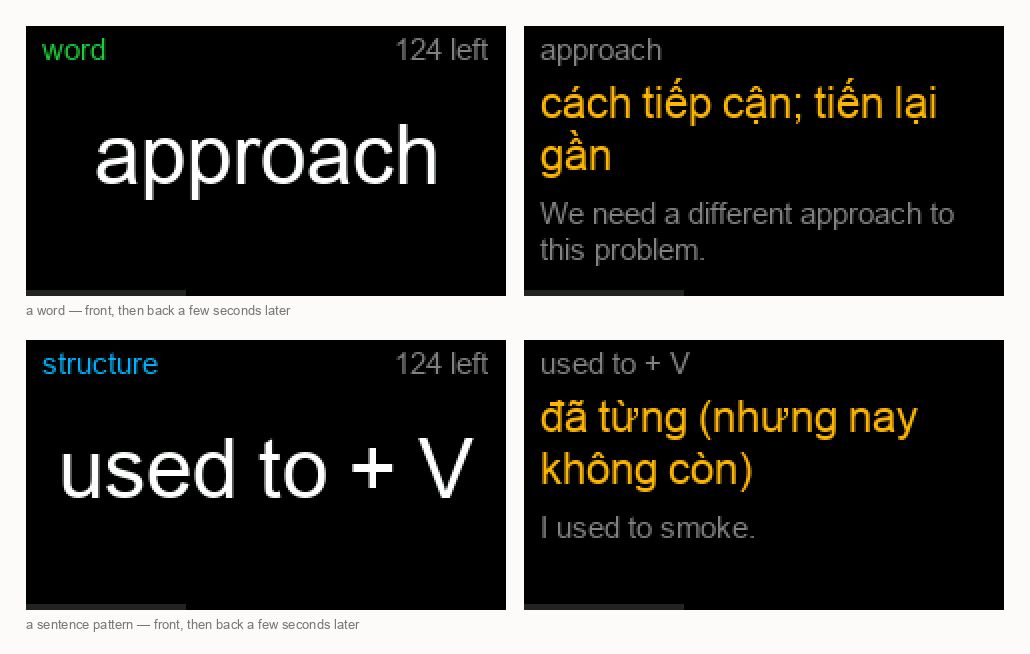
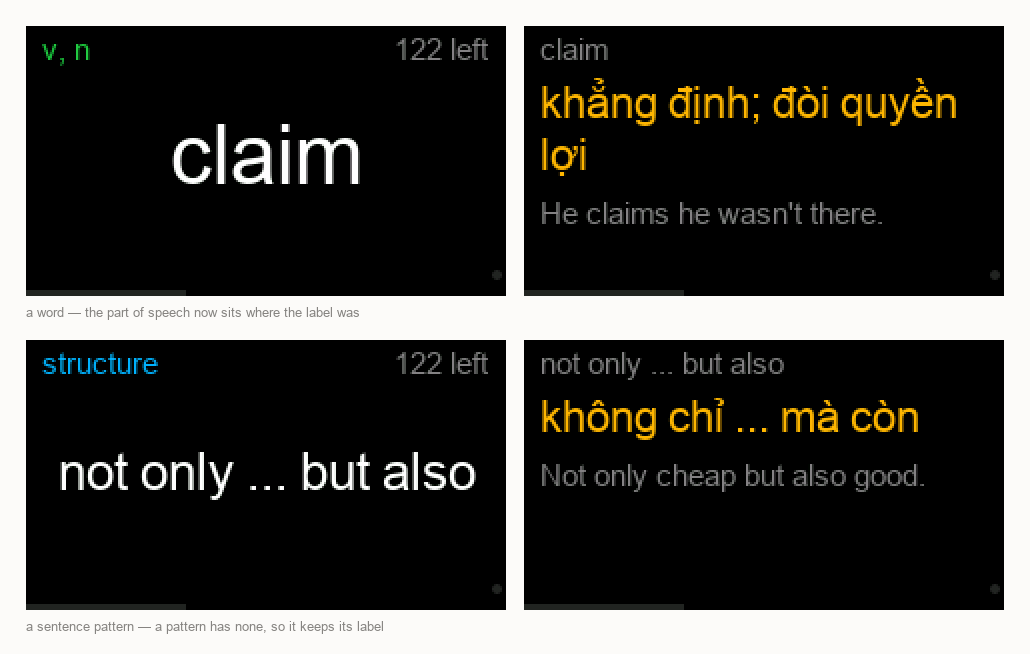
tag words with a part of speech, and stop counting showings
The meaning column had been quietly absorbing two word classes at once:
`approach` is "cách tiếp cận; tiến lại gần", a noun and a verb sharing one
cell. A `pos` column puts that on the card instead of leaving it to be
inferred, and the header label carries it -- "verb" says more than "word"
does, in the same pixels.

Stored short and shown in full. "n,v" is what the deck links into flash and
what a filter matches; "noun, verb" is what a person reads. The panel spells
it out only when it fits beside the counter and falls back to the short form
when it does not, the same "largest form that fits" rule the term is set by.

`seen` goes at the same time. It counted how many times a card was pushed to
the panel, which passed a hundred a day and distinguished nothing: a word
stared at forty times in one afternoon has been practised once. `days` is the
count that survives. The NVS byte keeps its width even though only the top
bit is used now -- narrowing it would change the blob size, and loadProgress()
wipes every saved mark whenever that happens.

diff --git a/src/main.cpp b/src/main.cpp
@@ -95,11 +95,11 @@ static const int MAX_BATCH = 40;
 struct Card {
   uint16_t id;
   uint8_t type;
+  const char *pos;    // "v", "n,v", "phr v"; empty for a structure
   const char *front;
   const char *back;
   const char *example;
   int16_t deckIndex;  // -1 for a fetched card: only compiled entries have NVS progress
-  uint8_t seen;       // this session, reported to the host and then cleared
   bool known;
 };
 
@@ -124,11 +124,11 @@ static const char *arenaCopy(const char *text) {
 
 // ------------------------------------------------------------------------ offline state
 
-// One byte per compiled entry: the top bit marks "known, never show again", the rest
-// counts how many times it has come up. 122 entries is 122 bytes, so the whole thing is
-// one small NVS blob rather than a key per entry.
+// One byte per compiled entry, of which only the top bit is used: "known, never show
+// again". The lower seven once counted showings and no longer do -- but the byte stays a
+// byte, because loadProgress() wipes the blob whenever its size changes and narrowing
+// this would throw away every mark already saved to buy back 15 bytes.
 static const uint8_t KNOWN_BIT = 0x80;
-static const uint8_t SEEN_MASK = 0x7F;
 uint8_t progress[DECK_COUNT];
 
 Preferences prefs;
@@ -225,14 +225,6 @@ uint8_t rotation = SCREEN_ROTATION;
 // ------------------------------------------------------------------------------ helpers
 
 static bool isKnown(uint16_t index) { return progress[index] & KNOWN_BIT; }
-static uint8_t seenCount(uint16_t index) { return progress[index] & SEEN_MASK; }
-
-static void noteSeenOffline(uint16_t index) {
-  if (seenCount(index) < SEEN_MASK) {
-    progress[index] = (progress[index] & KNOWN_BIT) | (seenCount(index) + 1);
-    progressDirty = true;
-  }
-}
 
 static uint16_t offlineRemaining() {
   uint16_t n = 0;
@@ -293,8 +285,9 @@ static void fillFromDeck() {
     if (bagPos >= bagSize) refillBag();
     if (bagSize == 0) break;
     uint16_t index = bag[bagPos++];
-    cards[cardCount++] = {DECK[index].id, DECK[index].type, DECK[index].front,
-                          DECK[index].back, DECK[index].example, (int16_t)index, 0, false};
+    cards[cardCount++] = {DECK[index].id, DECK[index].type, DECK[index].pos,
+                          DECK[index].front, DECK[index].back, DECK[index].example,
+                          (int16_t)index, false};
   }
   cardPos = -1;
   source = SOURCE_OFFLINE;
@@ -361,11 +354,10 @@ static void reportProgress() {
   JsonDocument doc;
   JsonArray list = doc["cards"].to<JsonArray>();
   for (uint16_t i = 0; i < cardCount; i++) {
-    if (cards[i].seen == 0 && !cards[i].known) continue;
+    if (!cards[i].known) continue;
     JsonObject item = list.add<JsonObject>();
     item["id"] = cards[i].id;
-    item["seen"] = cards[i].seen;
-    if (cards[i].known) item["known"] = true;
+    item["known"] = true;
   }
   if (list.size() == 0) return;
 
@@ -376,17 +368,15 @@ static void reportProgress() {
     remainingReported = reply["remaining"] | remainingReported;
     unreportedCards = 0;
     reportBackoffUntilMs = 0;
-    // Cleared only on success, so an unsent delta is re-sent next time. The host merges,
-    // taking the larger seen count and never un-setting known, so repeating a delta is
-    // harmless -- but a mark made while the host is asleep is lost if the board reboots
-    // before it syncs. The word simply comes back around to be marked again.
-    // Both flags are cleared, not just the count. Leaving `known` set meant one press --
-    // or one phantom pulse -- was re-asserted on every later report, so un-ticking the
-    // entry in the web UI just saw the board set it again a few cards later.
-    for (uint16_t i = 0; i < cardCount; i++) {
-      cards[i].seen = 0;
-      cards[i].known = false;
-    }
+    // Cleared only on success, so an unsent mark is re-sent next time. The host never
+    // un-sets known, so repeating a report is harmless and -- now that a showing count no
+    // longer rides along -- exactly idempotent. A mark made while the host is asleep is
+    // still lost if the board reboots before it syncs; the word simply comes back around
+    // to be marked again.
+    // Cleared after a successful send. Leaving `known` set meant one press -- or one
+    // phantom pulse -- was re-asserted on every later report, so un-ticking the entry in
+    // the web UI just saw the board set it again a few cards later.
+    for (uint16_t i = 0; i < cardCount; i++) cards[i].known = false;
   } else {
     reportBackoffUntilMs = millis() + REPORT_BACKOFF_MS;
   }
@@ -419,12 +409,13 @@ static bool fetchBatch() {
   strlcpy(batchDate, doc["date"] | "", sizeof(batchDate));
   for (JsonObject item : doc["cards"].as<JsonArray>()) {
     if (cardCount >= MAX_BATCH) break;
+    const char *pos = arenaCopy(item["p"] | "");
     const char *front = arenaCopy(item["f"] | "");
     const char *back = arenaCopy(item["b"] | "");
     const char *example = arenaCopy(item["e"] | "");
-    if (!front || !back || !example) break;  // arena full: keep what fits
+    if (!pos || !front || !back || !example) break;  // arena full: keep what fits
     cards[cardCount++] = {(uint16_t)(item["id"] | 0), (uint8_t)(item["t"] | 0),
-                          front, back, example, -1, 0, false};
+                          pos, front, back, example, -1, false};
   }
 
   if (cardCount == 0) return false;
@@ -440,8 +431,6 @@ static bool fetchBatch() {
 
 static void nextCard() {
   if (cardPos >= 0 && cardPos < (int16_t)cardCount) {
-    cards[cardPos].seen++;  // reset per card on a successful report, so this is a delta
-    if (cards[cardPos].deckIndex >= 0) noteSeenOffline(cards[cardPos].deckIndex);
     if (source == SOURCE_HOST && ++unreportedCards >= REPORT_EVERY) reportProgress();
   }
 
@@ -535,14 +524,69 @@ static int wrapText(const char *text, int maxWidth, char lines[][64], int maxLin
 // Only one smooth font can be loaded per drawing target at a time, so every text run
 // below is bracketed by loadFont/unloadFont. That is cheap here because text is redrawn
 // only when the card or its side changes -- a few times every six seconds, not per frame.
+// Parts of speech are stored short -- "n,v" -- because that is what keeps 122 of them
+// cheap in flash, and spelled out here because "noun" tells a learner something that "n."
+// only gestures at. Kept in step with POS_FULL in host/server.py; the board sees whichever
+// tags the host sends, so an unknown one is printed as it arrived rather than dropped.
+struct PosName { const char *tag; const char *full; };
+static const PosName POS_NAMES[] = {
+  {"n", "noun"},       {"v", "verb"},         {"adj", "adjective"},
+  {"adv", "adverb"},   {"prep", "preposition"}, {"conj", "conjunction"},
+  {"det", "determiner"}, {"pron", "pronoun"}, {"num", "number"},
+  {"exclam", "exclamation"}, {"art", "article"}, {"phr v", "phrasal verb"},
+  {"modal v", "modal verb"}, {"aux v", "auxiliary verb"},
+};
+
+// Writes "noun, verb" (full) or "n, v" (short) into `out`, always NUL-terminated and
+// never past `size`.
+static void posLabel(const char *pos, bool full, char *out, size_t size) {
+  size_t used = 0;
+  for (const char *part = pos; *part && used + 1 < size; ) {
+    const char *comma = strchr(part, ',');
+    size_t len = comma ? (size_t)(comma - part) : strlen(part);
+    const char *text = part;
+    size_t textLen = len;
+    if (full) {
+      for (const PosName &name : POS_NAMES) {
+        if (strlen(name.tag) == len && strncmp(name.tag, part, len) == 0) {
+          text = name.full;
+          textLen = strlen(name.full);
+          break;
+        }
+      }
+    }
+    if (used && used + 2 < size) { out[used++] = ','; out[used++] = ' '; }
+    for (size_t i = 0; i < textLen && used + 1 < size; i++) out[used++] = text[i];
+    if (!comma) break;
+    part = comma + 1;
+  }
+  out[used] = '\0';
+}
+
 static void drawHeader(const Card &card) {
   canvas.loadFont(fontSmall);
-  canvas.setTextDatum(TL_DATUM);
-  canvas.setTextColor(card.type == TYPE_STRUCTURE ? COLOR_STRUCTURE : COLOR_WORD, COLOR_BG);
-  canvas.drawString(card.type == TYPE_STRUCTURE ? "structure" : "word", MARGIN, 6);
 
   char counter[16];
   snprintf(counter, sizeof(counter), "%u left", remainingReported);
+
+  // The counter is measured before the label is chosen, because what is left over is what
+  // decides whether the part of speech can be spelled out. "adjective, adverb" does not
+  // fit beside "115 left"; "adj, adv" does. Same rule the term itself is set by: the
+  // largest form that fits, and only then a smaller one.
+  char label[40];
+  const char *text = "word";
+  if (card.type == TYPE_STRUCTURE) {
+    text = "structure";
+  } else if (card.pos && card.pos[0]) {
+    const int room = SCREEN_W - 2 * MARGIN - canvas.textWidth(counter) - 10;
+    posLabel(card.pos, true, label, sizeof(label));
+    if (canvas.textWidth(label) > room) posLabel(card.pos, false, label, sizeof(label));
+    text = label;
+  }
+  canvas.setTextDatum(TL_DATUM);
+  canvas.setTextColor(card.type == TYPE_STRUCTURE ? COLOR_STRUCTURE : COLOR_WORD, COLOR_BG);
+  canvas.drawString(text, MARGIN, 6);
+
   canvas.setTextDatum(TR_DATUM);
   canvas.setTextColor(COLOR_DIM, COLOR_BG);
   canvas.drawString(counter, SCREEN_W - MARGIN, 6);

diff --git a/tools/gen_deck.py b/tools/gen_deck.py
@@ -43,6 +43,7 @@ def main(src, dst):
         "  uint16_t id;        // stable across edits; saved progress is keyed off it",
         "  uint8_t  type;",
         "  uint8_t  level;",
+        "  const char *pos;    // \"v\", \"n,v\", \"phr v\"; empty for a structure",
         "  const char *front;  // English term or pattern",
         "  const char *back;   // Vietnamese meaning",
         "  const char *example;",
@@ -55,6 +56,7 @@ def main(src, dst):
     for r in rows:
         out.append(
             f'  {{{r["id"]}, {TYPES[r["type"]]}, {LEVELS[r["level"]]}, '
+            f'"{escape(r.get("pos", ""))}", '
             f'"{escape(r["front"])}", "{escape(r["back"])}", "{escape(r["example"])}"}},'
         )
     out += ["};", ""]
